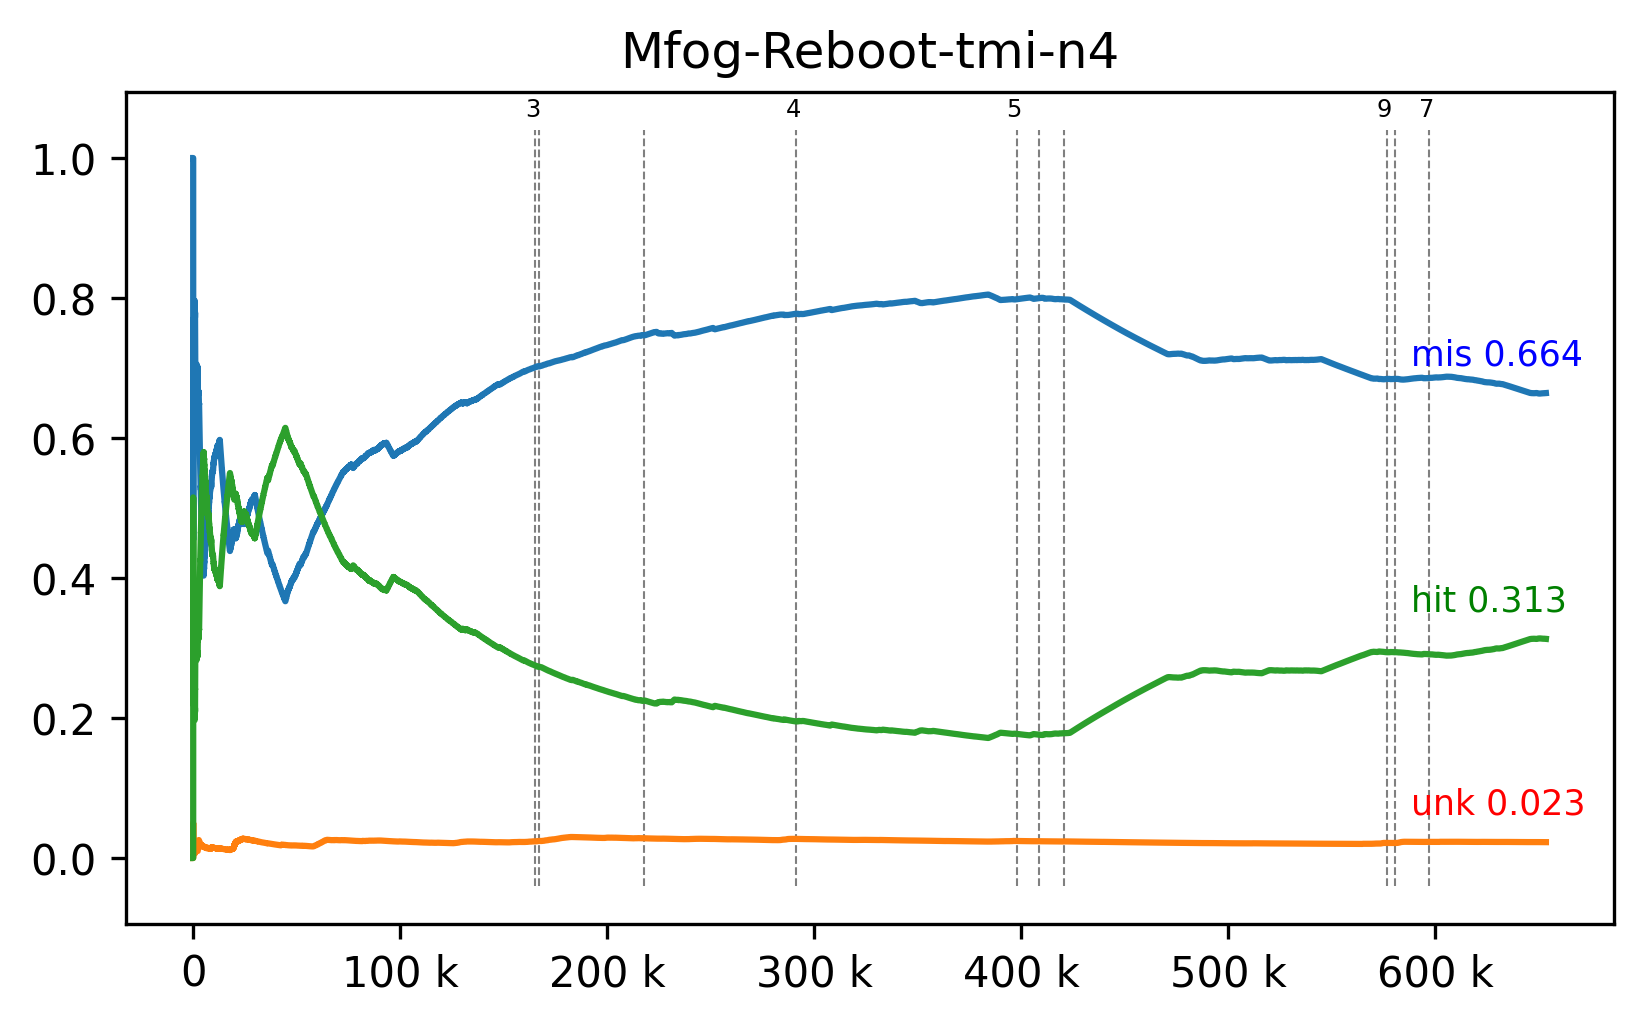
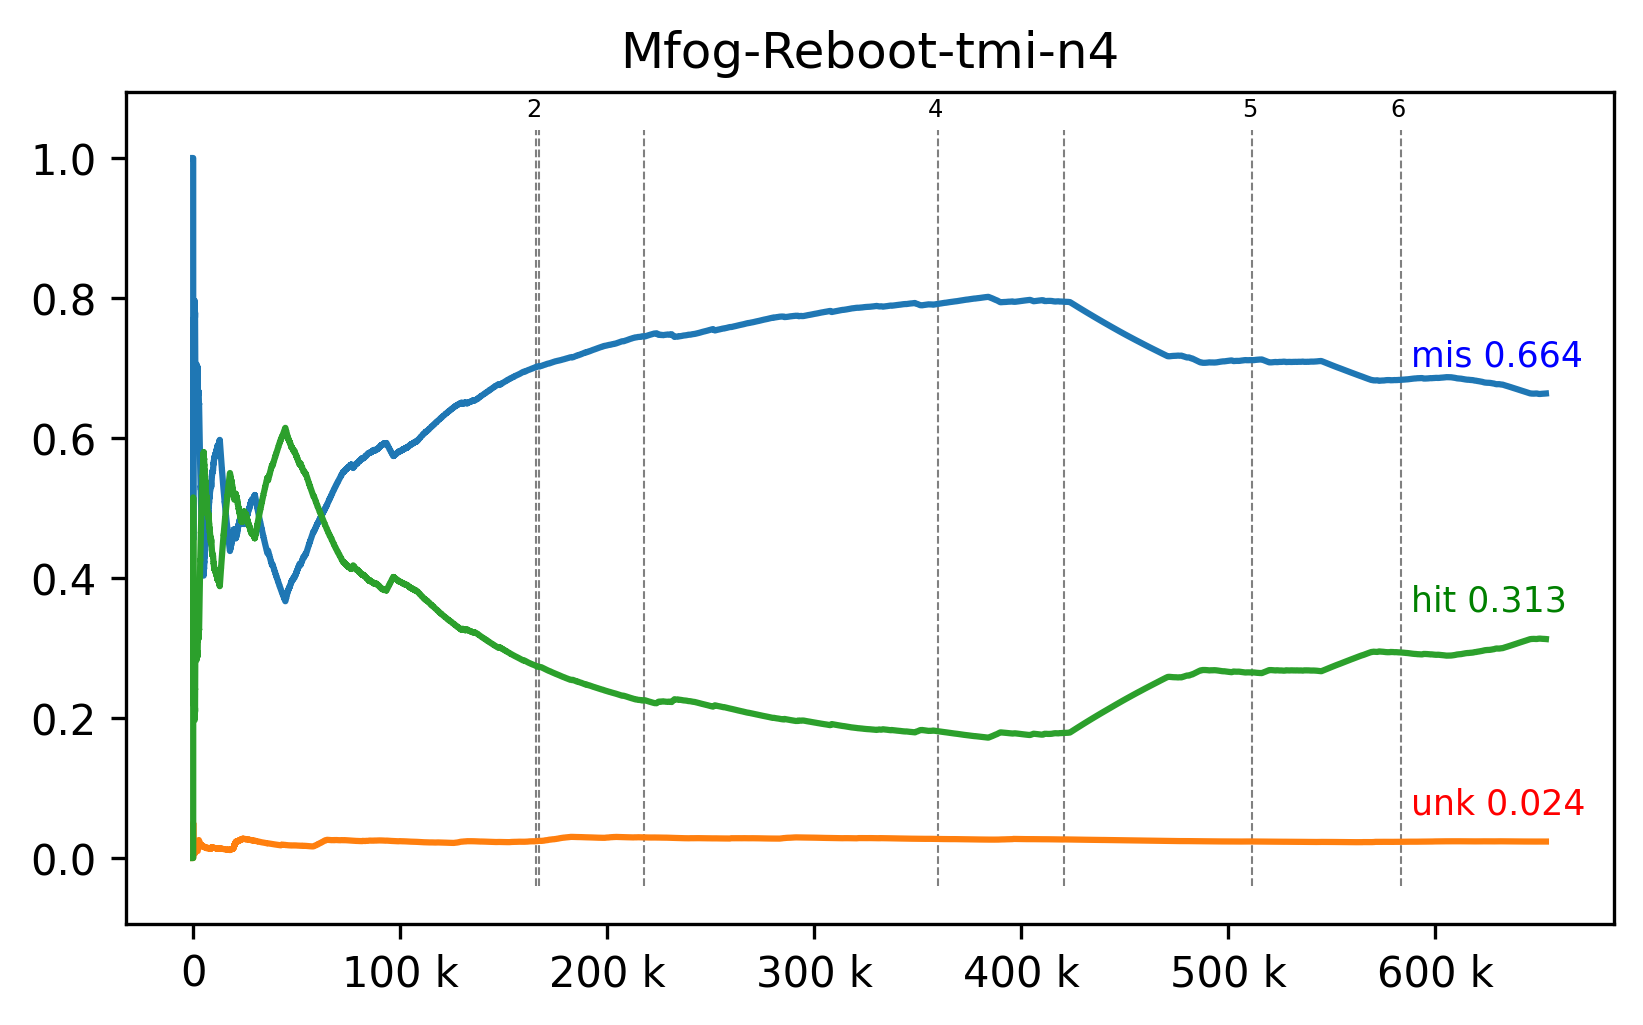
Cut off u_sender thread, form 21 to 14 seconds.

diff --git a/src/reboot/threaded-mpi.c b/src/reboot/threaded-mpi.c
@@ -30,7 +30,7 @@ typedef struct {
     // mpi stuff
     int mpiRank, mpiSize;
     char *mpiProcessorName;
-    CircularExampleBuffer *unkBuffer, *flightController;
+    CircularExampleBuffer *flightController;
     Model *model;
     pthread_mutex_t modelMutex;
     sem_t modelReadySemaphore;
@@ -60,9 +60,7 @@ void *classifier(void *arg) {
         assertMpi(MPI_Unpack(buffer, bufferSize, &position, example, sizeof(Example), MPI_BYTE, MPI_COMM_WORLD));
         example->val = valuePtr;
         if (example->label == MFOG_EOS_MARKER) {
-            // fprintf(stderr, "[classifier %d] MFOG_EOS_MARKER\n", args->mpiRank);
-            // assertMpi(MPI_Send(buffer, position, MPI_PACKED, MFOG_RANK_MAIN, MFOG_TAG_UNKNOWN, MPI_COMM_WORLD));
-            example = CEB_enqueue(args->unkBuffer, example);
+            assertMpi(MPI_Send(example, sizeof(Example), MPI_BYTE, MFOG_RANK_MAIN, MFOG_TAG_UNKNOWN, MPI_COMM_WORLD));
             break;
         }
         assertMpi(MPI_Unpack(buffer, bufferSize, &position, valuePtr, args->dim, MPI_DOUBLE, MPI_COMM_WORLD));
@@ -77,34 +75,11 @@ void *classifier(void *arg) {
         pthread_mutex_unlock(&args->modelMutex);
         //
         example->label = match.label;
-        example = CEB_enqueue(args->unkBuffer, example);
+        assertMpi(MPI_Send(example, sizeof(Example), MPI_BYTE, MFOG_RANK_MAIN, MFOG_TAG_UNKNOWN, MPI_COMM_WORLD));
     }
     fprintf(stderr, "[classifier %d] %le seconds. At %s:%d\n", args->mpiRank, ((double)clock() - start) / 1000000.0, __FILE__, __LINE__);
     free(buffer);
-    // free(example->val);
-    free(example);
-    return inputLine;
-}
-void *u_sender(void *arg) {
-    clock_t start = clock();
-    ThreadArgs *args = arg;
-    fprintf(stderr, "[u_sender %d]\n", args->mpiRank);
-    size_t *inputLine = calloc(1, sizeof(size_t));
-    Example *example = calloc(1, sizeof(Example));
-    example->val = calloc(args->dim, sizeof(double));
-    int mpiReturn;
-
-    while(1) {
-        example = CEB_dequeue(args->unkBuffer, example);
-        (*inputLine)++;
-        assertMpi(MPI_Send(example, sizeof(Example), MPI_BYTE, MFOG_RANK_MAIN, MFOG_TAG_UNKNOWN, MPI_COMM_WORLD));
-        if (example->label == MFOG_EOS_MARKER) {
-            // fprintf(stderr, "[u_sender %d] MFOG_EOS_MARKER\n", args->mpiRank);
-            break;
-        }
-    }
-    fprintf(stderr, "[u_sender %d] %le seconds. At %s:%d\n", args->mpiRank, ((double)clock() - start) / 1000000.0, __FILE__, __LINE__);
-    free(example->val); // don't free, last example (MFOG_EOS_MARKER) does not have a valid value
+    free(example->val);
     free(example);
     return inputLine;
 }
@@ -405,7 +380,6 @@ int main(int argc, char const *argv[]) {
             argv[0], PARAMS, args.mpiProcessorName, args.mpiRank, args.mpiSize);
         printf("#pointId,label\n");
         fflush(stdout);
-        // args.unkBuffer = CEB_init(calloc(1, sizeof(CircularExampleBuffer)), 1000, dim);
         args.flightController = calloc(args.mpiSize, sizeof(CircularExampleBuffer));
         for (size_t i = 0; i < args.mpiSize; i++) {
             CEB_init(&args.flightController[i], 1000, dim);
@@ -421,16 +395,12 @@ int main(int argc, char const *argv[]) {
         //
         CEB_destroy(args.flightController);
     } else {
-        args.unkBuffer = CEB_init(calloc(1, sizeof(CircularExampleBuffer)), 100, dim);
-        pthread_t classifier_t, u_sender_t, m_receiver_t;
+        pthread_t classifier_t, m_receiver_t;
         assertErrno(pthread_create(&classifier_t, NULL, classifier, (void *)&args) == 0, "Thread creation fail%c.", '.', MPI_Finalize());
-        assertErrno(pthread_create(&u_sender_t, NULL, u_sender, (void *)&args) == 0, "Thread creation fail%c.", '.', MPI_Finalize());
         assertErrno(pthread_create(&m_receiver_t, NULL, m_receiver, (void *)&args) == 0, "Thread creation fail%c.", '.', MPI_Finalize());
         //
         assertErrno(pthread_join(classifier_t, (void **)&result) == 0, "Thread join fail%c.", '.', MPI_Finalize());
-        assertErrno(pthread_join(u_sender_t, (void **)&result) == 0, "Thread join fail%c.", '.', MPI_Finalize());
         assertErrno(pthread_join(m_receiver_t, (void **)&result) == 0, "Thread join fail%c.", '.', MPI_Finalize());
-        CEB_destroy(args.unkBuffer);
     }
     fprintf(stderr, "[%s] %le seconds. At %s:%d\n", argv[0], ((double)clock() - start) / 1000000.0, __FILE__, __LINE__);
     free(args.model);
